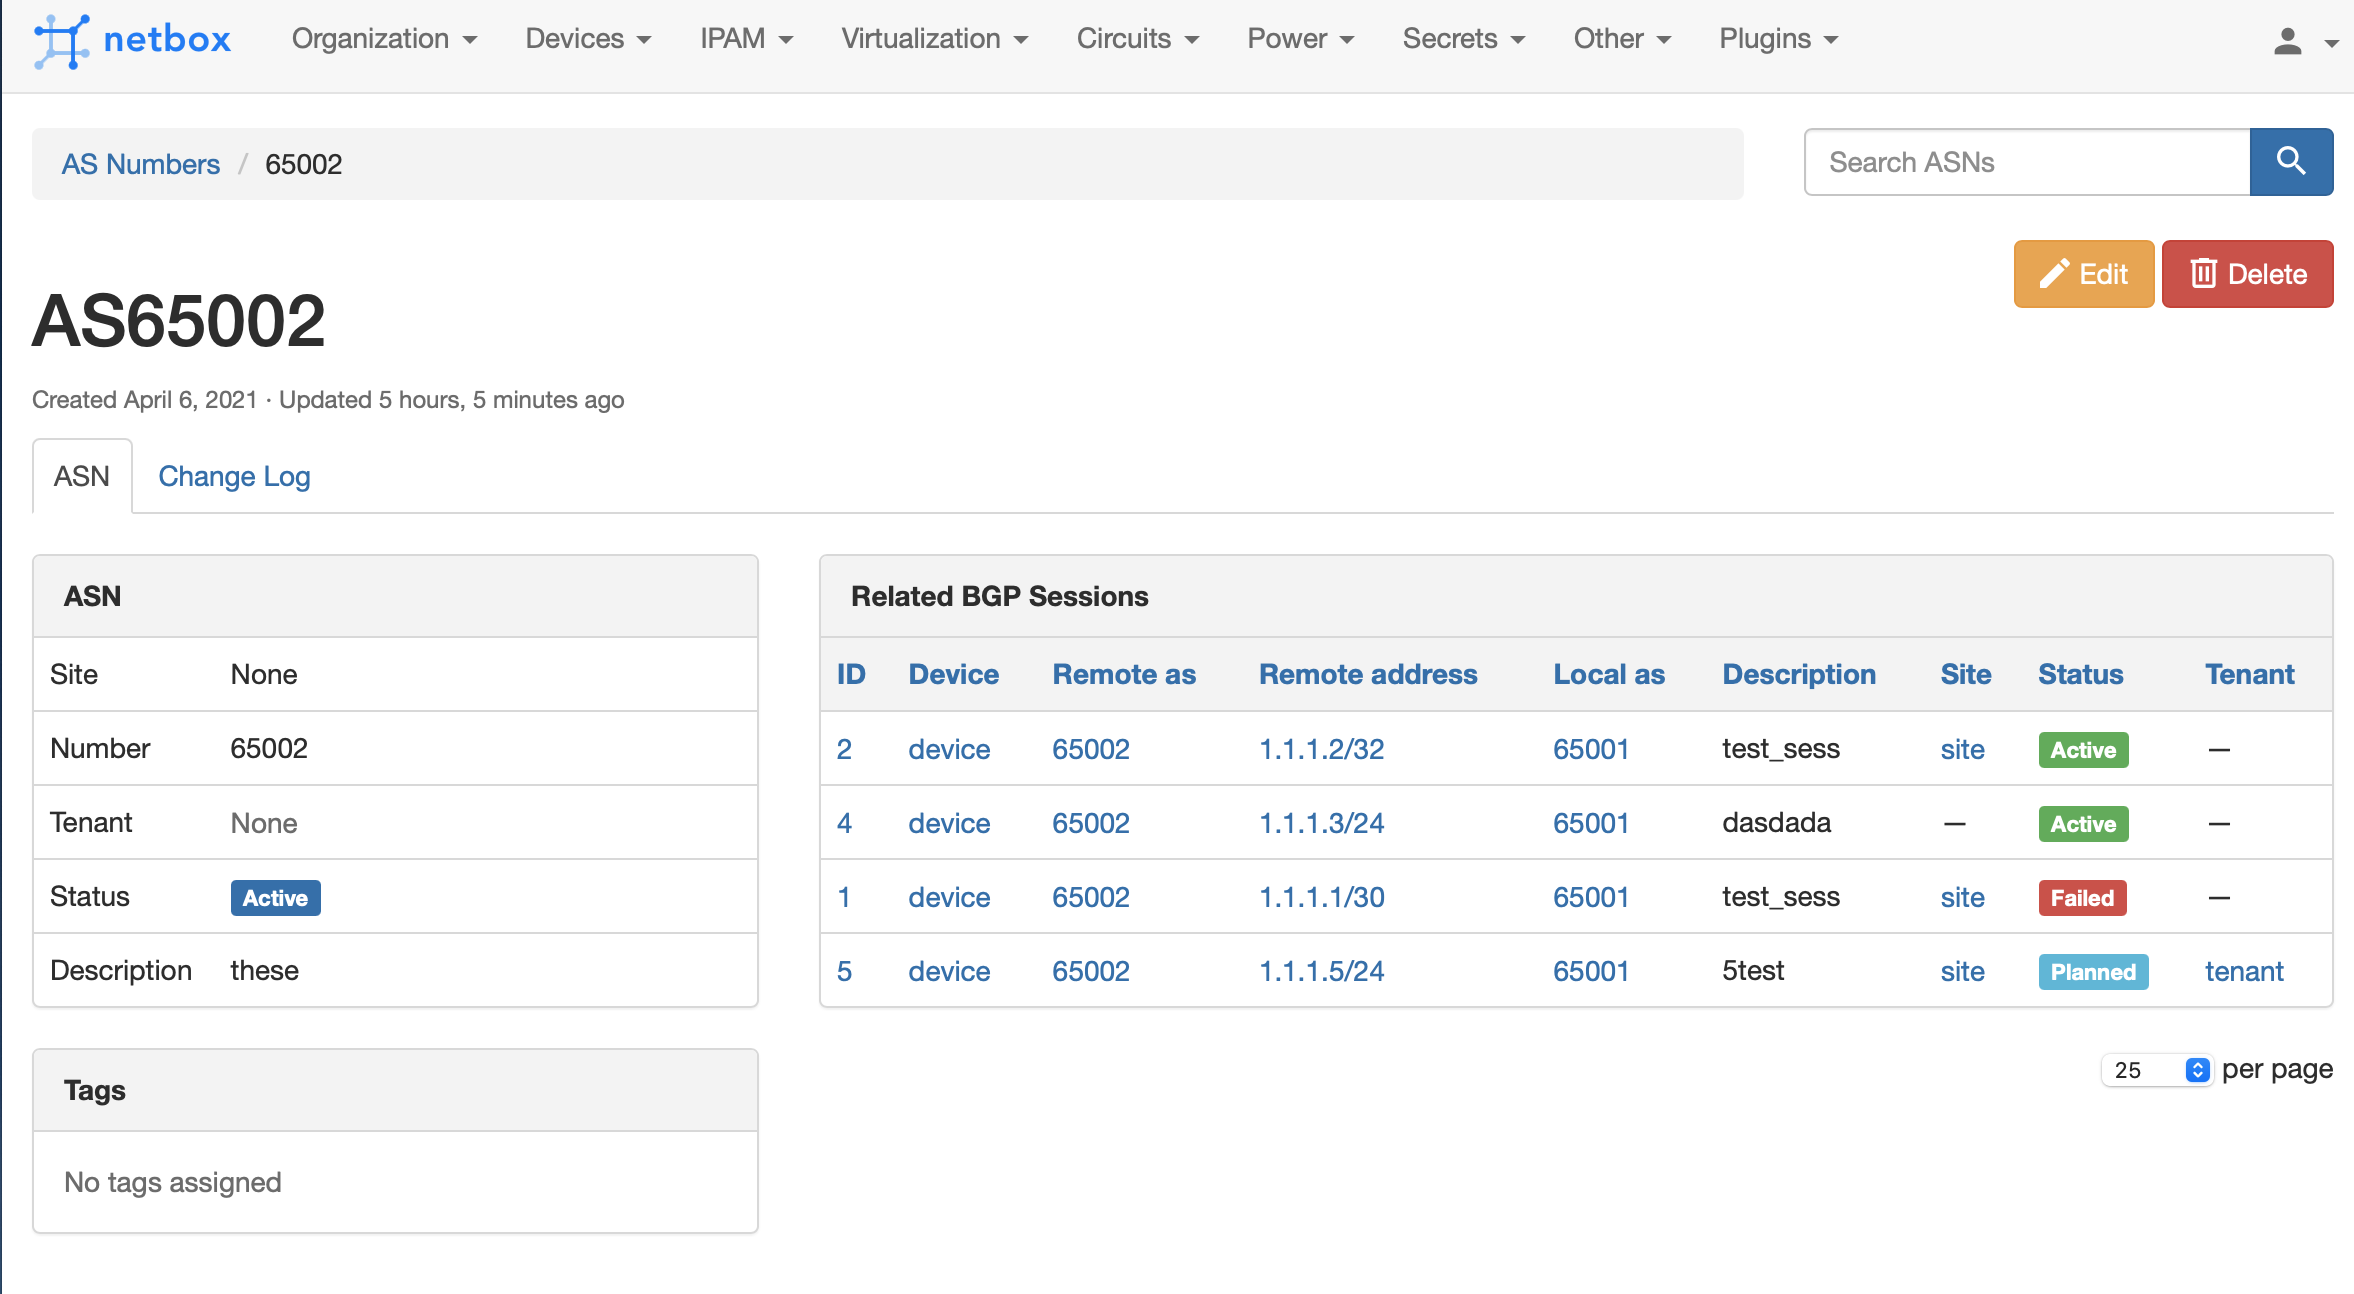
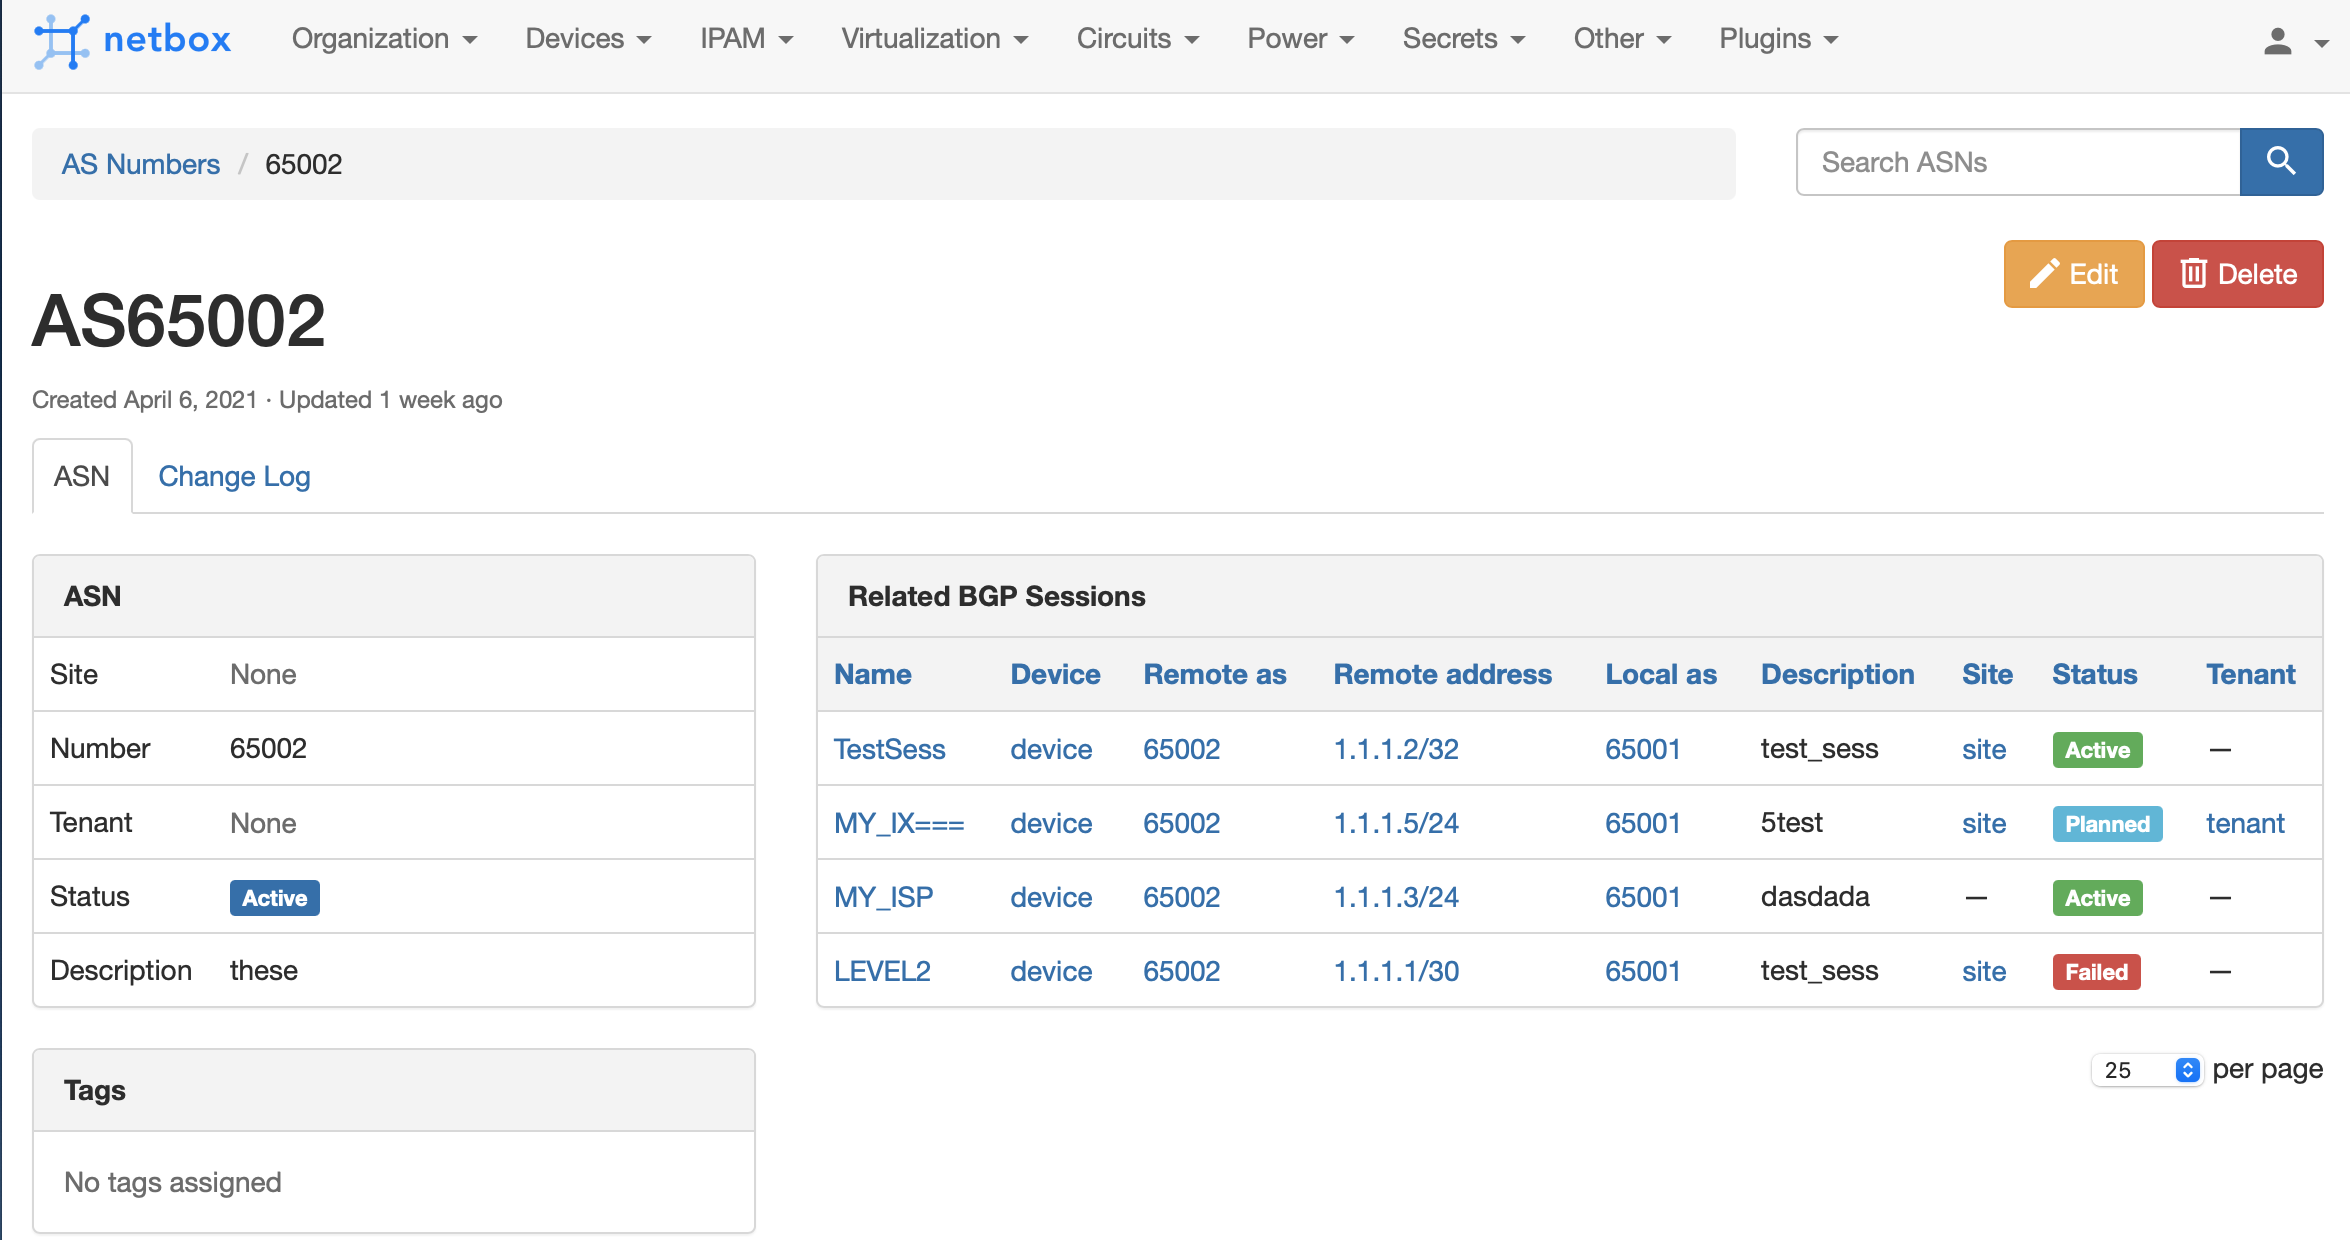
add device extension; add name filed for session;

diff --git a/netbox_bgp/templates/netbox_bgp/bgpsession.html b/netbox_bgp/templates/netbox_bgp/bgpsession.html
@@ -49,7 +49,7 @@
     </a>
     {% endif %}
 </div>
-<h1>{% block title %}BGP Session: {{ object }}{% endblock %}</h1>
+<h1>{% block title %}BGP Session {{ object }}{% endblock %}</h1>
 {% include 'inc/created_updated.html' %}
 <div class="pull-right noprint">
     {% custom_links object %}
@@ -74,6 +74,26 @@
                 <strong>BGP Session</strong>
             </div>
             <table class="table table-hover panel-body attr-table">
+                <tr>
+                    <td>Name</td>
+                    <td>
+                        {% if object.name %}
+                        {{ object.name }}
+                        {% else %}
+                        <span class="text-muted">None</span>
+                        {% endif %}
+                    </td>
+                </tr>
+                <tr>
+                    <td>Device</td>
+                    <td>
+                        {% if object.device %}
+                        <a href="{{ object.device.get_absolute_url }}">{{ object.device }}</a>
+                        {% else %}
+                        <span class="text-muted">None</span>
+                        {% endif %}
+                    </td>
+                </tr>                          
                 <tr>
                     <td>Local AS</td>
                     <td>

diff --git a/netbox_bgp/templates/netbox_bgp/asn.html b/netbox_bgp/templates/netbox_bgp/asn.html
@@ -75,8 +75,14 @@
             </div>
             <table class="table table-hover panel-body attr-table">
                 <tr>
-                    <td>Site</td>
-                    <td>{{ object.site }}</td>
+                    <td>Site</td>                    
+                    <td>
+                        {% if object.site %}
+                        <a href="{{ object.site.get_absolute_url }}">{{ object.site }}</a>
+                        {% else %}
+                        <span class="text-muted">None</span>
+                        {% endif %}
+                    </td>
                 </tr>                
                 <tr>
                     <td>Number</td>

diff --git a/netbox_bgp/templates/netbox_bgp/device_extend.html b/netbox_bgp/templates/netbox_bgp/device_extend.html
@@ -1,0 +1,2 @@
+{% load render_table from django_tables2 %}
+{% include 'utilities/obj_table.html' with table=related_session_table table_template='panel_table.html' heading='Related BGP Sessions' panel_class='default noprint' %}

diff --git a/netbox_bgp/template_content.py b/netbox_bgp/template_content.py
@@ -1,0 +1,37 @@
+from extras.plugins import PluginTemplateExtension
+
+from .models import BGPSession
+from .tables import BGPSessionTable
+
+
+class DeviceBGPSession(PluginTemplateExtension):
+    model = 'dcim.device'
+
+    def left_page(self):
+        if self.context['config'].get('device_ext_page') == 'left':
+            return self.x_page()
+        return ''
+
+    def right_page(self):
+        if self.context['config'].get('device_ext_page') == 'right':
+            return self.x_page()
+        return ''
+
+    def full_width_page(self):
+        if self.context['config'].get('device_ext_page') == 'full_width':
+            return self.x_page()
+        return ''
+
+    def x_page(self):
+        obj = self.context['object']
+        sess = BGPSession.objects.filter(device=obj)
+        sess_table = BGPSessionTable(sess)
+        return self.render(
+            'netbox_bgp/device_extend.html',
+            extra_context={
+                'related_session_table': sess_table
+            }
+        )
+
+
+template_extensions = [DeviceBGPSession]

diff --git a/netbox_bgp/api/serializers.py b/netbox_bgp/api/serializers.py
@@ -1,16 +1,21 @@
 from rest_framework.serializers import ModelSerializer
 
 from netbox.api import ChoiceField
-
+from dcim.api.nested_serializers import NestedSiteSerializer
+from tenancy.api.nested_serializers import NestedTenantSerializer
+from extras.api.serializers import TaggedObjectSerializer
+from extras.api.customfields import CustomFieldModelSerializer
 from netbox_bgp.models import ASN, ASNStatusChoices, BGPSession, SessionStatusChoices
 
 
-class ASNSerializer(ModelSerializer):
+class ASNSerializer(TaggedObjectSerializer, CustomFieldModelSerializer):
     status = ChoiceField(choices=ASNStatusChoices, required=False)
+    site = NestedSiteSerializer(required=False, allow_null=True)
+    tenant = NestedTenantSerializer(required=False, allow_null=True)
 
     class Meta:
         model = ASN
-        fields = ['number', 'id', 'status']
+        fields = ['number', 'id', 'status', 'description', 'site', 'tenant', 'tags']
 
 
 class BGPSessionSerializer(ModelSerializer):

diff --git a/netbox_bgp/forms.py b/netbox_bgp/forms.py
@@ -156,6 +156,10 @@ class CommunityBulkEditForm(BootstrapMixin, BulkEditForm):
 
 
 class BGPSessionForm(BootstrapMixin, forms.ModelForm):
+    name = forms.CharField(
+        max_length=64,
+        required=True
+    )
     tags = DynamicModelMultipleChoiceField(
         queryset=Tag.objects.all(),
         required=False
@@ -177,7 +181,6 @@ class BGPSessionForm(BootstrapMixin, forms.ModelForm):
     )
     local_as = DynamicModelChoiceField(
         queryset=ASN.objects.all(),
-        null_option=None,
         query_params={
             'site_id': '$site'
         },
@@ -209,7 +212,7 @@ class BGPSessionForm(BootstrapMixin, forms.ModelForm):
     class Meta:
         model = BGPSession
         fields = [
-            'site', 'device',
+            'name', 'site', 'device',
             'local_as', 'remote_as', 'local_address', 'remote_address',
             'description', 'status', 'tenant', 'tags',
         ]

diff --git a/netbox_bgp/models.py b/netbox_bgp/models.py
@@ -170,6 +170,11 @@ class Community(BGPBase):
 
 @extras_features('export_templates', 'webhooks')
 class BGPSession(ChangeLoggedModel):
+    name = models.CharField(
+        max_length=64,
+        blank=True,
+        null=True
+    )
     site = models.ForeignKey(
         to='dcim.Site',
         on_delete=models.SET_NULL,
@@ -225,7 +230,7 @@ class BGPSession(ChangeLoggedModel):
         verbose_name_plural = 'BGP Sessions'
 
     def __str__(self):
-        return f"{self.device}->{self.remote_as}({self.remote_address})"
+        return f"{self.device}:{self.name}"
 
     def get_status_class(self):
         return SessionStatusChoices.CSS_CLASSES.get(self.status)

diff --git a/netbox_bgp/tables.py b/netbox_bgp/tables.py
@@ -45,7 +45,7 @@ class CommunityTable(BaseTable):
 
 class BGPSessionTable(BaseTable):
     pk = ToggleColumn()
-    id = tables.LinkColumn()
+    name = tables.LinkColumn()
     device = tables.LinkColumn()
     remote_address = tables.LinkColumn()
     remote_as = tables.LinkColumn()
@@ -61,5 +61,5 @@ class BGPSessionTable(BaseTable):
     class Meta(BaseTable.Meta):
         model = BGPSession
         fields = (
-            'pk', 'id', 'device', 'remote_as', 'remote_address', 'local_as', 'description', 'site', 'status'
+            'pk', 'name', 'device', 'remote_as', 'remote_address', 'local_as', 'description', 'site', 'status'
         )

diff --git a/netbox_bgp/migrations/0007_netbox_bgp.py b/netbox_bgp/migrations/0007_netbox_bgp.py
@@ -1,0 +1,18 @@
+# Generated by Django 3.1.3 on 2021-04-14 10:26
+
+from django.db import migrations, models
+
+
+class Migration(migrations.Migration):
+
+    dependencies = [
+        ('netbox_bgp', '0006_netbox_bgp'),
+    ]
+
+    operations = [
+        migrations.AlterField(
+            model_name='bgpsession',
+            name='name',
+            field=models.CharField(blank=True, max_length=64, null=True),
+        ),
+    ]

diff --git a/netbox_bgp/migrations/0006_netbox_bgp.py b/netbox_bgp/migrations/0006_netbox_bgp.py
@@ -1,0 +1,18 @@
+# Generated by Django 3.1.3 on 2021-04-14 09:57
+
+from django.db import migrations, models
+
+
+class Migration(migrations.Migration):
+
+    dependencies = [
+        ('netbox_bgp', '0005_netbox_bgp'),
+    ]
+
+    operations = [
+        migrations.AddField(
+            model_name='bgpsession',
+            name='name',
+            field=models.CharField(blank=True, max_length=100, null=True),
+        ),
+    ]

diff --git a/netbox_bgp/filters.py b/netbox_bgp/filters.py
@@ -72,6 +72,7 @@ class BGPSessionFilterSet(django_filters.FilterSet):
             return queryset
         qs_filter = (
             Q(remote_as__number__icontains=value)
+            | Q(name__icontains=value)
             | Q(local_as__number__icontains=value)
             | Q(description__icontains=value)
         )

diff --git a/netbox_bgp/admin.py b/netbox_bgp/admin.py
@@ -14,4 +14,4 @@ class CommunityAdmin(admin.ModelAdmin):
 
 @admin.register(BGPSession)
 class BGPSessionAdmin(admin.ModelAdmin):
-    fields = ('local_address', 'local_as', 'remote_address', 'remote_as' 'description')
+    fields = ('name', 'local_address', 'local_as', 'remote_address', 'remote_as', 'description')
